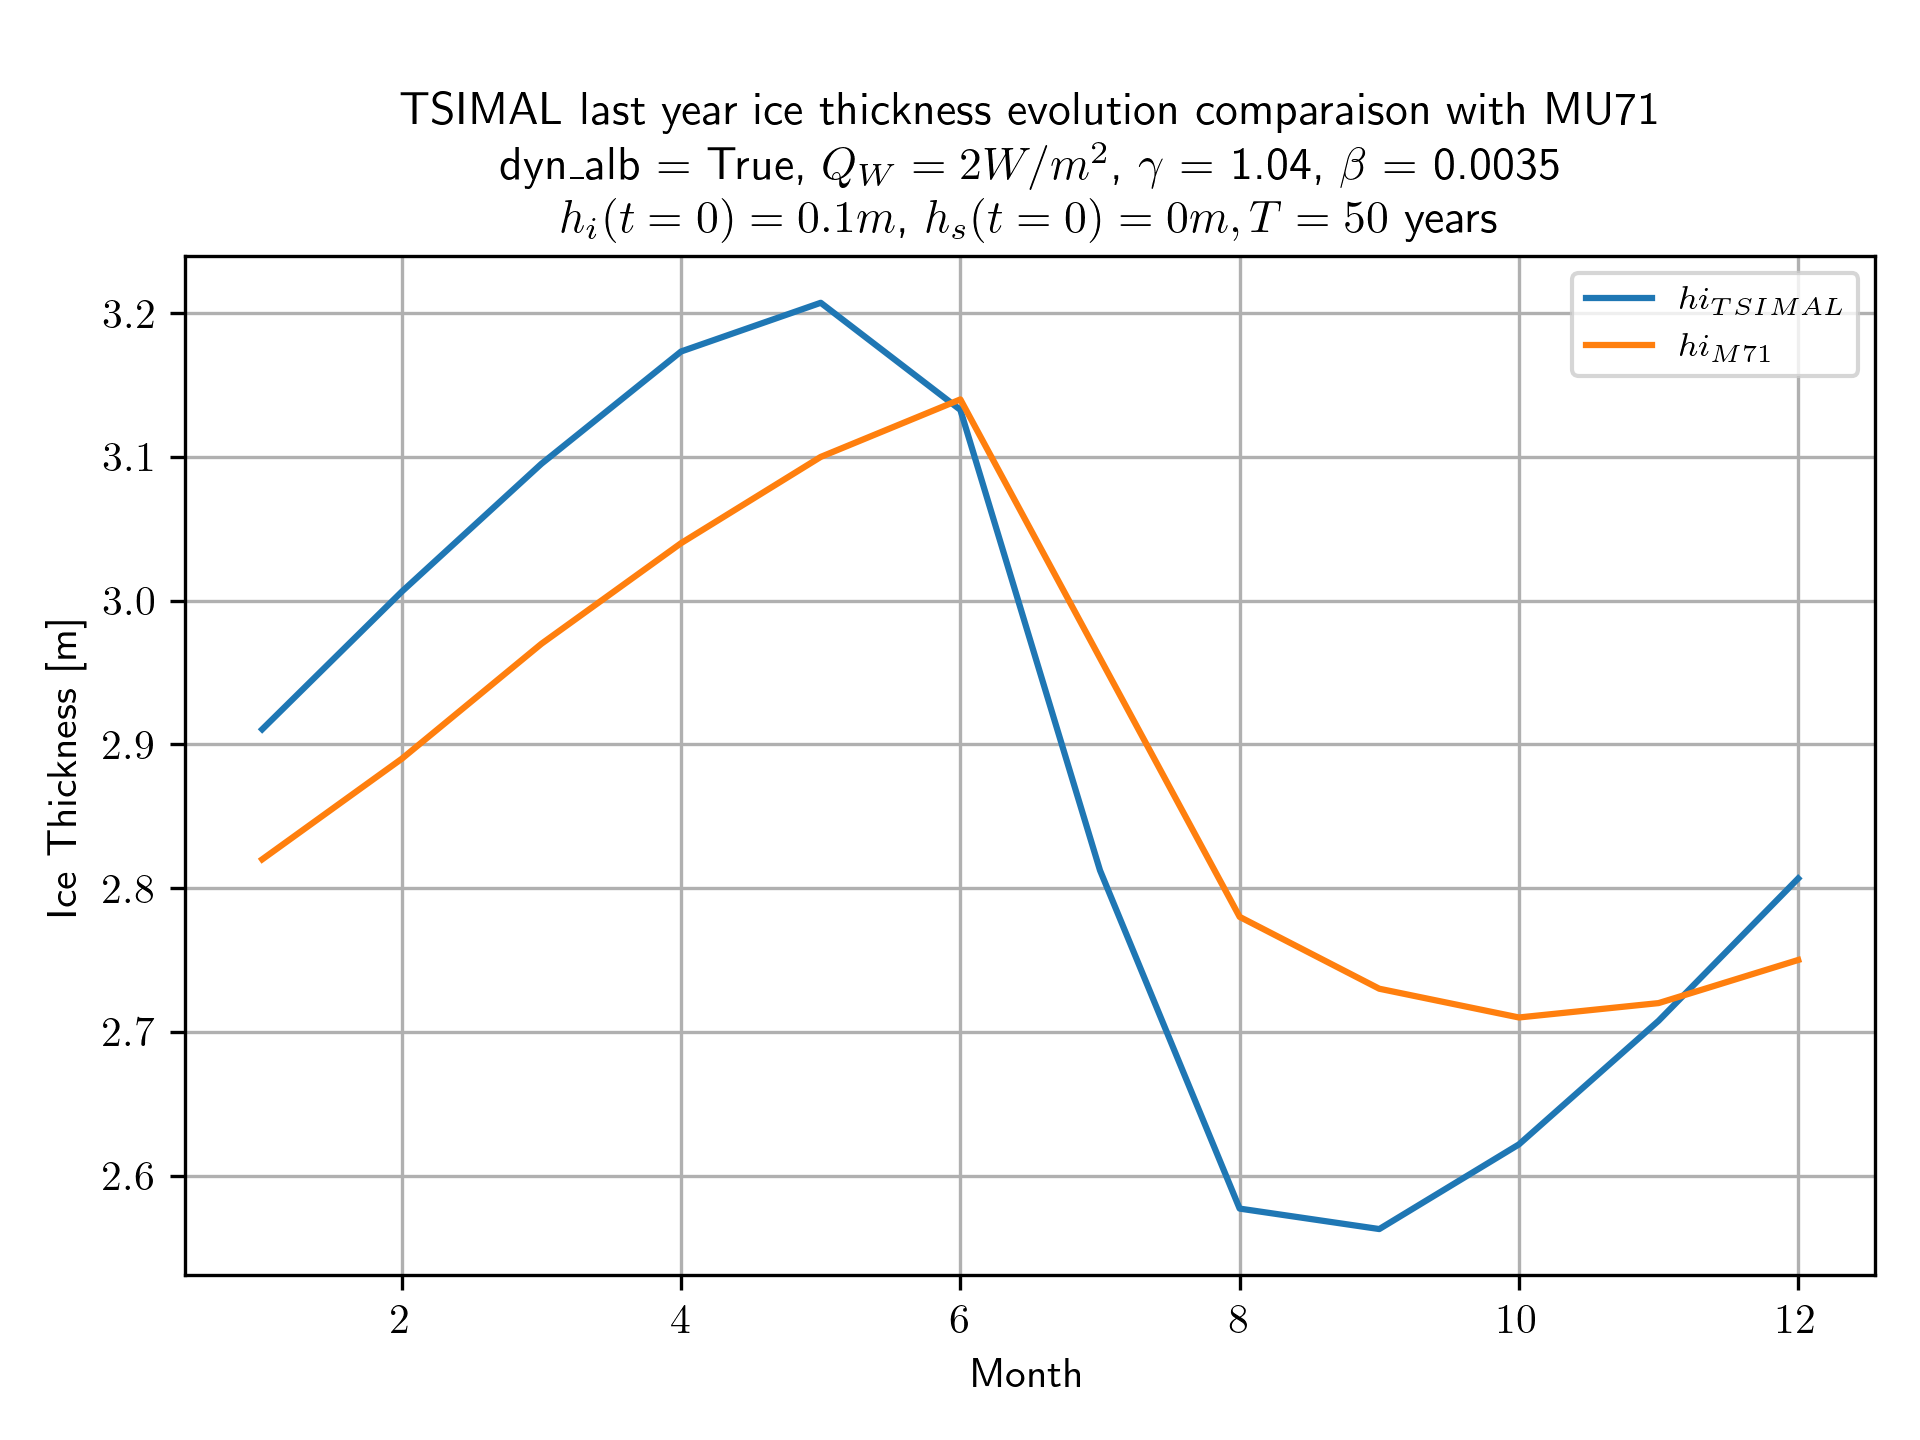
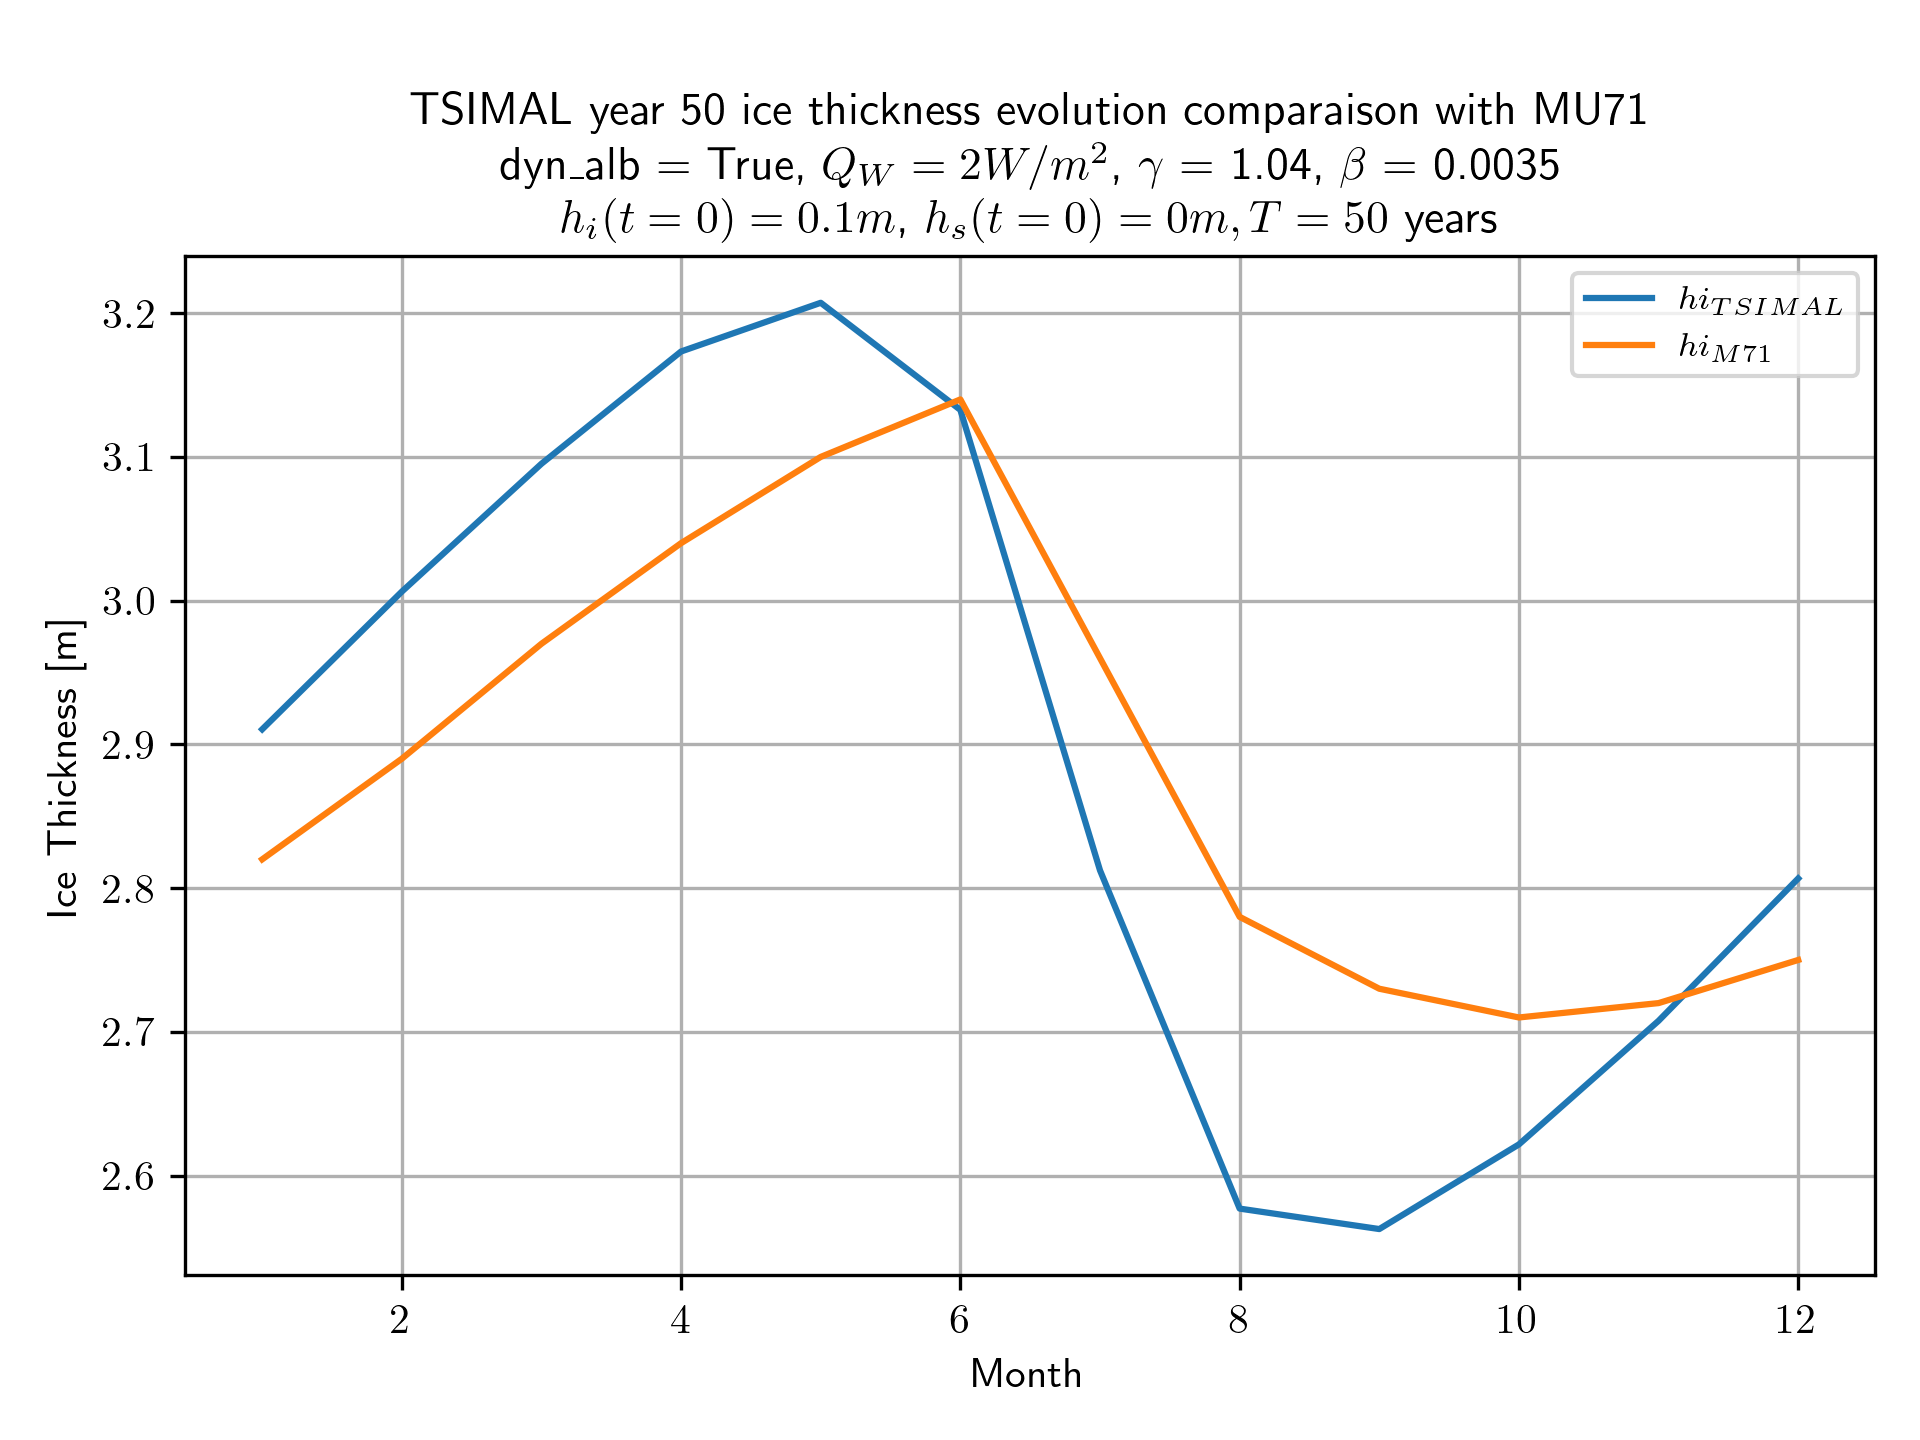
Final 1.0 Opt param + init CTL.txt

Changed region(s): [[0.2188, 0.0625, 0.875, 0.0938]]

diff --git a/CONTROL_TSIMAL.py b/CONTROL_TSIMAL.py
@@ -807,15 +807,21 @@ def tuning_comp():
     fig, axs = plt.subplots(1, 2)
     fig.suptitle('TSIMAL Last year ice thickness evolution comparaison with MU71\n' + r'$dyn_alb =$ {}, $Q_W = {}W/m^2$, $h_i(t=0) = {}m$, $h_s(t=0) = {}m, T = {}$ years, $\gamma$ = {}'.format(dyn_alb,
                                                                                                                                                                                                  Q_w, h_i0, h_s0, N_years, gamma_SM))
-    # Storing only the last year value of the sea ice thickness #
-    hi_last_year = np.zeros(365)
-    hi_last_year = h_ice[-365:]
+    # Storing only the n (starting from the end of the sim) year value of the sea ice thickness #
+    # n = 0 means we keep the last year values, n = T means we keep the first year values
+    n = 0
+    if n == 0:
+        hi_year_n = np.zeros(365)
+        hi_year_n = h_ice[-365:]
+    if n != 0:
+        hi_year_n = np.zeros(365)
+        hi_year_n = h_ice[-365*(n+1):-365*n]
 
-    hi_month_mean_last_year = month_mean_v2(hi_last_year)
+    hi_month_mean_year_n = month_mean_v2(hi_year_n)
 
     # Plotting #
 
-    axs[0].plot(np.arange(1, 13), hi_month_mean_last_year,
+    axs[0].plot(np.arange(1, 13), hi_month_mean_year_n,
                 label=r"$hi_{TSIMAL}$")
     axs[0].set_title('TSIMAL Model')
     axs[0].set_xlabel('Month')
@@ -837,10 +843,10 @@ def tuning_comp():
 
     ## Same plot ##
 
-    plt.plot(np.arange(1, 13), hi_month_mean_last_year, label=r"$hi_{TSIMAL}$")
+    plt.plot(np.arange(1, 13), hi_month_mean_year_n, label=r"$hi_{TSIMAL}$")
     plt.plot(np.arange(1, 13), hi_MU71, label=r"$hi_{M71}$")
-    plt.title('TSIMAL last year ice thickness evolution comparaison with MU71\n' + r'dyn_alb = {}, $Q_W = {}W/m^2$, $\gamma$ = {}, $\beta$ = {}'.format(dyn_alb,
-                                                                                                                                                        Q_w, gamma_SM, beta_SM) + '\n' + r'$h_i(t=0) = {}m$, $h_s(t=0) = {}m, T = {}$ years'.format(h_i0, h_s0, N_years), size=11)
+    plt.title('TSIMAL year {} ice thickness evolution comparaison with MU71\n'.format(N_years-n) + r'dyn_alb = {}, $Q_W = {}W/m^2$, $\gamma$ = {}, $\beta$ = {}'.format(dyn_alb,
+                                                                                                                                                                        Q_w, gamma_SM, beta_SM) + '\n' + r'$h_i(t=0) = {}m$, $h_s(t=0) = {}m, T = {}$ years'.format(h_i0, h_s0, N_years), size=11)
     plt.xlabel("Month", size=10)
     plt.ylabel("Ice Thickness [m]", size=10)
     plt.legend(fontsize=8)
@@ -852,11 +858,11 @@ def tuning_comp():
 
     ### Computation of the error on annual mean thickness ###
     mean_TSIMAL, mean_mu71, err_abs, err_rel = err_annual_mean_thick(
-        hi_month_mean_last_year, hi_MU71)
+        hi_month_mean_year_n, hi_MU71)
     ### Computation of the MSE on annual mean thickness ###
-    mse = MSE_annual_mean_thick(hi_month_mean_last_year, hi_MU71)
+    mse = MSE_annual_mean_thick(hi_month_mean_year_n, hi_MU71)
     ### Computation of the MSE on annual mean thickness ###
-    r = cor_annual_mean_thick(hi_month_mean_last_year, hi_MU71)
+    r = cor_annual_mean_thick(hi_month_mean_year_n, hi_MU71)
 
     ### Output ###
     print("--------------------TSIMAL & MU71 Comparison----------------------")
@@ -869,7 +875,8 @@ def tuning_comp():
         alb_dry_snow, alb_bare_ice, epsilon, i_0))
     print("------------------------------------------------------------------")
 
-    print("Last year mean ice thickness TSIMAL = {:.3f}m".format(mean_TSIMAL))
+    print("Year {} mean ice thickness TSIMAL = {:.3f}m".format(
+        N_years - n, mean_TSIMAL))
     print("Mean ice thickness MU71 = {:.3f}m".format(mean_mu71))
     print("Absolute Error = {:.4f}m".format(err_abs))
     print("Relative Error = {:.2f}%".format(err_rel))
